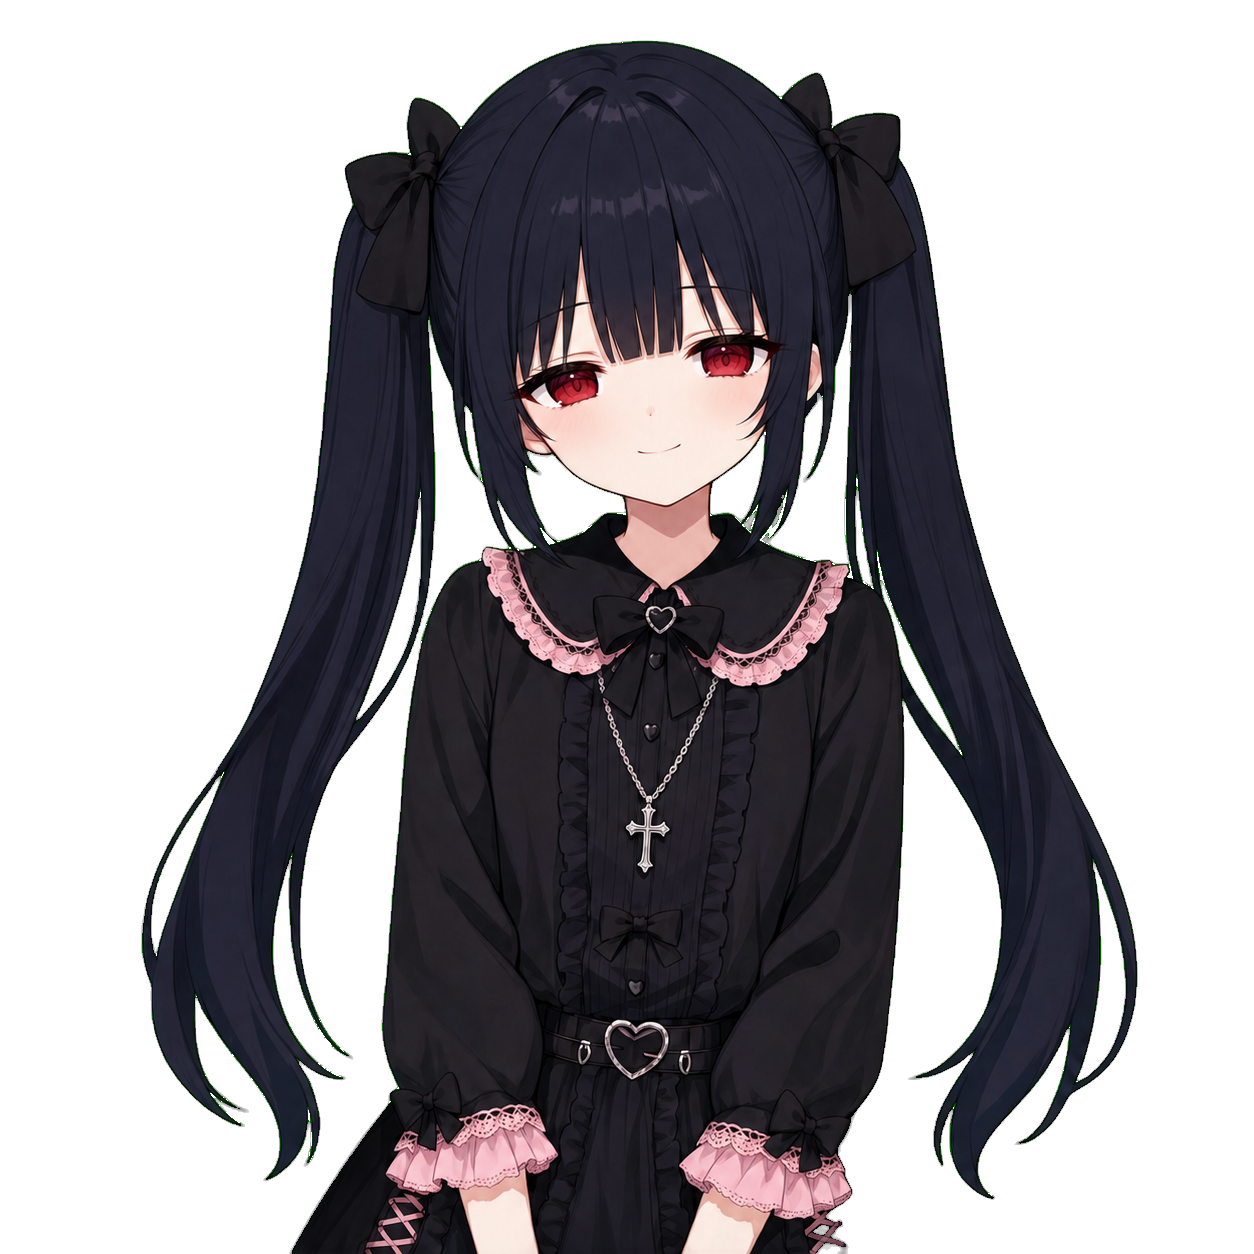
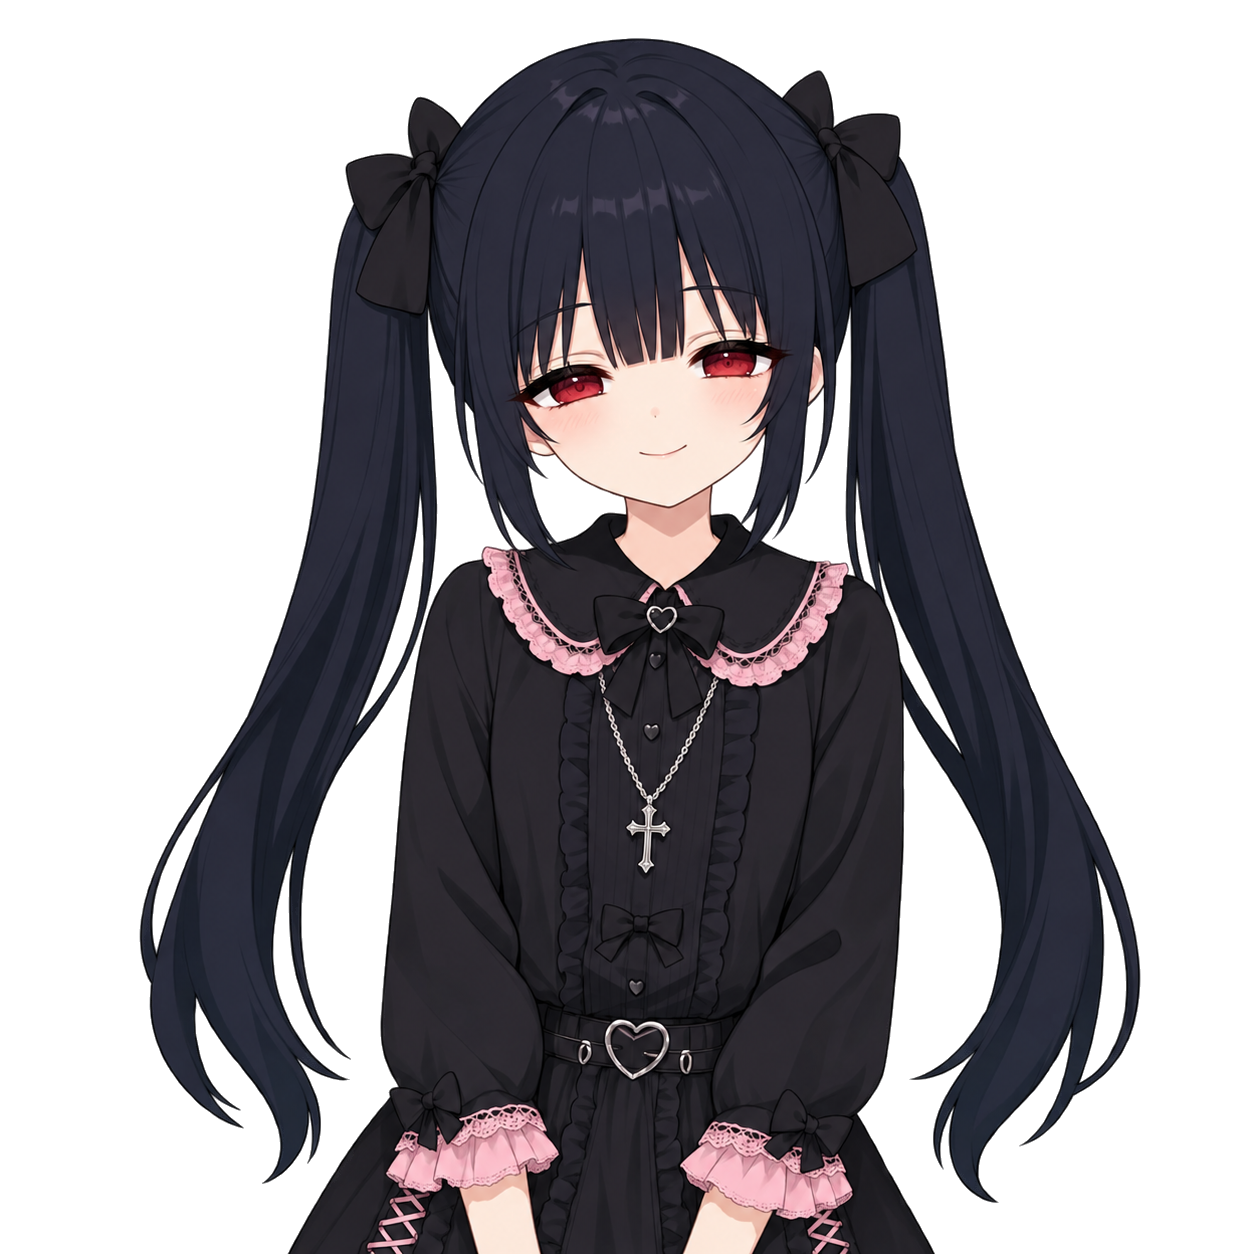
feat(tachie): native-transparent expression variants, green-screen as fallback
image_gen now returns true RGBA on the -i reference path: 13/13 on hongliu
(2026-11-18, smile x3 + angry/sad/surprised/confused/excited x2), vs ~1/4
in 2026-07. The green-screen route left ~1900-2300 fully opaque green
fringe px per variant; native output has none visible.

- remove_bg.py: add --bg-type native (no rembg). Verifies real alpha
  (exit 3 if no alpha channel or <10% fully transparent px), snaps alpha
  250-254 -> 255, drops alpha <=30 (clears green RGB image_gen leaves at
  alpha ~2-3), bleeds edge colour into transparent px. rembg path moved
  into a function unchanged; green/transparent outputs byte-identical.
- generate-tachie Step 3: native transparency first, green screen on
  exit 3. Validated scope noted: one dark-haired character only.
- hongliu smile/angry/sad/surprised/confused regenerated natively,
  replacing green-fringed variants; prompts updated. _raw/_rembg kept.

Claude-Session: https://claude.ai/code/session_016Eezm5GmBMQAhv3HiquHhN

diff --git a/skills/remove-tachie-bg/scripts/remove_bg.py b/skills/remove-tachie-bg/scripts/remove_bg.py
@@ -6,6 +6,11 @@ MVP de-background pipeline for the `remove-tachie-bg` skill:
   solid-green dig-out + speck cleanup) -> transparent PNG + dark/white
   check previews.
 
+`--bg-type native` is the no-rembg path for images the generator already
+delivered with a real alpha channel: verify the alpha is real -> snap
+near-opaque alpha to 255 -> drop near-transparent alpha -> bleed edge colour
+into fully transparent pixels -> same previews.
+
 See skills/remove-tachie-bg/SKILL.md for when/how to use.
 Deliberately NOT included (v2): background auto-detection, alpha-matting
 refinement, batch mode, complex-background handling.
@@ -19,46 +24,74 @@ import numpy as np
 from PIL import Image
 from scipy import ndimage
 
-# 函式庫 API 而非 rembg CLI: CLI 進入點無條件 import server/GUI 依賴(在 [cli] extra,
-# 拖 gradio/fastapi 全套), 函式庫核心只需 [cpu]; CLI 的 i 命令內部即是 remove(bytes, session)
-try:
-    from rembg import new_session, remove as rembg_remove
-except ImportError as e:
-    sys.exit(f"[error] rembg import failed ({e}). Is rembg[cpu] installed? See requirements.txt")
+# native 路徑門檻 (2026-11-18 hongliu 13 張實測: 全透明 48.5–49.4%, 本體 alpha 落在 250–254)
+NATIVE_MIN_TRANSPARENT = 0.10  # 全透明像素低於此比例 → 不是真透明(棋盤格假透明或畫了背景)
+NATIVE_OPAQUE_FROM = 250       # 本體 alpha 250–254 會微透出底色 → 拉到 255
+NATIVE_DROP_BELOW = 30         # 與 rembg 路徑的 α≤30→0 一致; 也清掉 image_gen 留在 α≈2–3 的綠底殘色
+EXIT_NOT_NATIVE = 3            # 呼叫端據此退回綠幕路徑
 
 
-def main():
-    ap = argparse.ArgumentParser(description="De-background an anime tachie image.")
-    ap.add_argument("input", help="path to the source image")
-    ap.add_argument("-o", "--output", required=True, help="path for the transparent RGBA PNG")
-    ap.add_argument(
-        "--bg-type",
-        choices=["green", "solid", "transparent", "other"],
-        default="other",
-        help="original background type; 'green' triggers green-spill decontamination + solid-green dig-out",
-    )
-    ap.add_argument(
-        "--no-green-dig",
-        action="store_true",
-        help="skip solid-green residue dig-out (escape hatch when the character's own palette contains saturated green, e.g. green eyes/hair/outfit)",
-    )
-    ap.add_argument("--max-edge", type=int, default=1536, help="downscale long edge to this (default 1536)")
-    ap.add_argument("--preview-dir", default=None, help="dir for _darkcheck/_whitecheck previews (default: output dir)")
-    args = ap.parse_args()
-
-    if not os.path.isfile(args.input):
-        sys.exit(f"[error] input not found: {args.input}")
-
-    # 1. load + downscale (立繪用不到 8K,超大圖 rembg 慢且不會更準)
+def load_scaled(path, mode, max_edge):
+    """Open + downscale to max_edge (立繪用不到 8K, 超大圖 rembg 慢且不會更準)."""
     try:
-        img = Image.open(args.input).convert("RGB")
+        img = Image.open(path).convert(mode)
     except OSError as e:  # UnidentifiedImageError(壞檔/非圖片)也是 OSError
         sys.exit(f"[error] cannot read image ({e}). PNG/JPEG/WebP supported.")
     w, h = img.size
-    scale = min(1.0, args.max_edge / max(w, h))
+    scale = min(1.0, max_edge / max(w, h))
     if scale < 1.0:
         img = img.resize((int(w * scale), int(h * scale)))
         print(f"[downscale] {w}x{h} -> {img.size[0]}x{img.size[1]}")
+    return img
+
+
+def native_pipeline(args):
+    """Finalize a generator-native RGBA image without re-segmenting it."""
+    src = Image.open(args.input)
+    if "A" not in src.getbands():
+        print(f"[not-native] no alpha channel (mode={src.mode}) — fall back to the green-screen route")
+        sys.exit(EXIT_NOT_NATIVE)
+    arr = np.array(load_scaled(args.input, "RGBA", args.max_edge))
+    a = arr[:, :, 3].astype(np.int32)
+
+    transparent_share = float((a == 0).mean())
+    if transparent_share < NATIVE_MIN_TRANSPARENT:
+        print(f"[not-native] only {transparent_share:.1%} fully transparent px "
+              f"(< {NATIVE_MIN_TRANSPARENT:.0%}) — likely fake/checkered transparency; "
+              "fall back to the green-screen route")
+        sys.exit(EXIT_NOT_NATIVE)
+
+    snapped = int(((a >= NATIVE_OPAQUE_FROM) & (a < 255)).sum())
+    dropped = int(((a > 0) & (a <= NATIVE_DROP_BELOW)).sum())
+    a[a >= NATIVE_OPAQUE_FROM] = 255
+    a[a <= NATIVE_DROP_BELOW] = 0
+    arr[:, :, 3] = a.astype(np.uint8)
+
+    # 全透明像素的 RGB 改成最近可見像素的顏色 (edge bleed): 引擎縮放/雙線性濾波會混到
+    # 透明像素的 RGB, 留著綠底殘色會滲綠邊, 塗黑則滲黑邊; 等同 Godot Fix Alpha Border 先做掉
+    hidden = a == 0
+    if hidden.any() and (~hidden).any():
+        _, (iy, ix) = ndimage.distance_transform_edt(hidden, return_indices=True)
+        for c in range(3):
+            arr[:, :, c] = arr[iy, ix, c]
+
+    stats = [f"[native] real alpha: {transparent_share:.1%} fully transparent px",
+             f"[native] snapped {snapped} px alpha {NATIVE_OPAQUE_FROM}-254 -> 255, "
+             f"dropped {dropped} px alpha 1-{NATIVE_DROP_BELOW} -> 0, edge colour bled into transparent px"]
+    return arr, stats
+
+
+def rembg_pipeline(args):
+    """Segment with rembg, clamp alpha, and (green only) de-green."""
+    # 函式庫 API 而非 rembg CLI: CLI 進入點無條件 import server/GUI 依賴(在 [cli] extra,
+    # 拖 gradio/fastapi 全套), 函式庫核心只需 [cpu]; CLI 的 i 命令內部即是 remove(bytes, session)
+    try:
+        from rembg import new_session, remove as rembg_remove
+    except ImportError as e:
+        sys.exit(f"[error] rembg import failed ({e}). Is rembg[cpu] installed? See requirements.txt")
+
+    # 1. load + downscale
+    img = load_scaled(args.input, "RGB", args.max_edge)
 
     # 2. rembg (anime-tuned segmentation; 餵 PNG bytes — 輸出驗證基準建立在此路徑, 勿改餵 PIL 物件)
     buf = io.BytesIO()
@@ -108,6 +141,43 @@ def main():
             speck_count = int(small.sum())
             arr[:, :, 3] = np.where(small, 0, arr[:, :, 3]).astype(np.uint8)
 
+    stats = []
+    if args.bg_type == "green":
+        stats.append(f"[de-green] decontaminated {greenish_count} edge pixels")
+        if not args.no_green_dig:
+            stats.append(f"[green-dig] removed {dug_count} solid green px"
+                         + (f" + {speck_count} px in isolated specks" if speck_count else ""))
+    return arr, stats
+
+
+def main():
+    ap = argparse.ArgumentParser(description="De-background an anime tachie image.")
+    ap.add_argument("input", help="path to the source image")
+    ap.add_argument("-o", "--output", required=True, help="path for the transparent RGBA PNG")
+    ap.add_argument(
+        "--bg-type",
+        choices=["green", "solid", "transparent", "other", "native"],
+        default="other",
+        help="original background type; 'green' triggers green-spill decontamination + solid-green dig-out; "
+             f"'native' = generator already delivered real alpha (no rembg; exits {EXIT_NOT_NATIVE} if the alpha is not real)",
+    )
+    ap.add_argument(
+        "--no-green-dig",
+        action="store_true",
+        help="skip solid-green residue dig-out (escape hatch when the character's own palette contains saturated green, e.g. green eyes/hair/outfit)",
+    )
+    ap.add_argument("--max-edge", type=int, default=1536, help="downscale long edge to this (default 1536)")
+    ap.add_argument("--preview-dir", default=None, help="dir for _darkcheck/_whitecheck previews (default: output dir)")
+    args = ap.parse_args()
+
+    if not os.path.isfile(args.input):
+        sys.exit(f"[error] input not found: {args.input}")
+
+    if args.bg_type == "native":
+        arr, stats = native_pipeline(args)
+    else:
+        arr, stats = rembg_pipeline(args)
+
     out = Image.fromarray(arr, "RGBA")
     os.makedirs(os.path.dirname(os.path.abspath(args.output)), exist_ok=True)
     out.save(args.output)
@@ -124,11 +194,8 @@ def main():
         canvas.convert("RGB").save(p)
         previews.append(p)
 
-    if args.bg_type == "green":
-        print(f"[de-green] decontaminated {greenish_count} edge pixels")
-        if not args.no_green_dig:
-            print(f"[green-dig] removed {dug_count} solid green px"
-                  + (f" + {speck_count} px in isolated specks" if speck_count else ""))
+    for line in stats:
+        print(line)
     print(f"[done] {args.output}")
     print(f"[check] eyeball BOTH previews:\n        {previews[0]}\n        {previews[1]}")
 

diff --git a/skills/generate-tachie/SKILL.md b/skills/generate-tachie/SKILL.md
@@ -88,9 +88,13 @@ The **Prompt Anchor** is the key consistency mechanism — a fixed text block de
 5. Save prompt as `assets/tachie/<character_name>/<character_name>_<expression>.prompt.txt`
 6. Show the result (transparent PNG **and** both background checks) to the user for approval before generating variants.
 
-### Step 3 — Generate Expression Variants (green-screen route)
+### Step 3 — Generate Expression Variants (native transparency, green-screen fallback)
 
-**Why green-screen, not transparent**: variant generation passes the base image as a visual reference (`-i`). Codex `image_gen` internally composites `-i` transparent reference images onto a **chroma-green backing** before feeding the model (evidence: `tmp/imagegen/hongliu_neutral_chroma.png`, gitignored) — so the model sees a green-backed reference and paints a background anyway. Asking for a transparent background on the `-i` path yields true RGBA only ~1/4 of the time. Requesting a green screen instead *aligns with* that internal behavior, and the residue it leaves is recoverable by color (see `remove-tachie-bg`). Pipeline validated 5/5 on hongliu regeneration (2026-07-11: surprised/smile/angry/sad/confused).
+**Why native transparency first**: variant generation passes the base image as a visual reference (`-i`). Asking `image_gen` for a transparent background on this path now delivers true RGBA reliably — **13/13** on hongliu (2026-11-18: smile ×3, angry/sad/surprised/confused/excited ×2), clean on both background checks, and with **no visible green residue** (the green-screen route left ~1900–2300 fully opaque green fringe px per image on the same character). History: in 2026-07 the same request yielded true RGBA only ~1/4 of the time, which is why this step used to be green-screen only; which `image_gen` model version Codex runs is not exposed, so the success rate can regress again — the `native` post-process verifies every image and the green-screen route stays as the fallback.
+
+**Validated scope**: all 13 samples are one dark-haired character (hongliu: blue-black hair, one reference image, one outfit). Light hair (blonde/silver/pink/white) is **untested** on this path — its edges may halo differently. The first time a new character goes through this step, run the full dual-background check on **every** expression, not a sample. The exit-3 gate only catches missing/fake transparency; it does **not** catch white/gray edge halos, which only the dark/white previews reveal.
+
+Two quirks of native output, both handled by `remove_bg.py --bg-type native`: the character body comes back at alpha 250–254 instead of 255 (slightly see-through), and near-transparent pixels (alpha ≈ 2–3) carry green RGB — `image_gen` still composites `-i` transparent references onto a chroma-green backing internally (evidence: `tmp/imagegen/hongliu_neutral_chroma.png`, gitignored).
 
 For each requested expression (or all 6 MVP expressions: smile, angry, sad, surprised, confused):
 
@@ -101,20 +105,26 @@ For each requested expression (or all 6 MVP expressions: smile, angry, sad, surp
    - "Use the visible image above as the visual reference — preserve the exact character design, outfit, hair, pose, and proportions. Change only the facial expression."
    - The target expression: describe it concretely (e.g., "angry expression: furrowed brows, clenched jaw, sharp eyes" not just "angry")
    - "Single character, no text"
-   - Every line from the **Anti-Artifact Prompt Lines** section below, verbatim, **with the green-screen adaptation applied** (and the non-dark-hair adaptation if the character's hair is not dark)
+   - Every line from the **Anti-Artifact Prompt Lines** section below, verbatim (apply the non-dark-hair adaptation if the character's hair is not dark)
    - Art style cues matching the chosen `art_style` (same as the base)
-   - End with the green-screen backdrop instruction, verbatim:
+   - End with the transparent-background instruction, verbatim:
+
+     > "Fully transparent background: output a true RGBA PNG with a real alpha channel — no backdrop color, no checkerboard pattern, every gap between hair strands and the area around the silhouette fully transparent."
+
+3. Generate, then finalize via the `remove-tachie-bg` script (no rembg on this path — it verifies the alpha is real, snaps alpha ≥250 to 255, drops alpha ≤30, and bleeds edge colour into transparent pixels):
+
+   ```bash
+   python3 ../remove-tachie-bg/scripts/remove_bg.py <raw>.png -o <output>.png --bg-type native
+   ```
+
+   Then inspect per the **Post-Process & Artifact Check** dual-background step.
+4. **Fallback — exit code 3** (`[not-native]`: no alpha channel, or under 10% fully transparent pixels = fake/checkered transparency or a painted backdrop): redo this expression on the green-screen route —
+   - Same prompt, but apply the **green-screen adaptation** to the Anti-Artifact lines and replace the final instruction with, verbatim:
 
      > "Solid uniform pure green chroma-key background (#00FF00), a flat single-color green backdrop with no gradient, no texture, no pattern — the green fills every gap between hair strands and around the entire silhouette."
 
-3. Generate, then de-background via the `remove-tachie-bg` script (two-stage de-greening included):
-
-   ```bash
-   python3 ../remove-tachie-bg/scripts/remove_bg.py <raw>.png -o <output>.png --bg-type green
-   ```
-
-   Then inspect per the **Post-Process & Artifact Check** dual-background step. If the character's own palette contains saturated green, add `--no-green-dig` (see that skill's escape hatch).
-4. Save as `<character_name>_<expression>.png` with `.prompt.txt`.
+   - De-background with two-stage de-greening: `python3 ../remove-tachie-bg/scripts/remove_bg.py <raw>.png -o <output>.png --bg-type green` (add `--no-green-dig` if the character's own palette contains saturated green — see that skill's escape hatch). Validated 5/5 on hongliu (2026-07-11), but the result can keep a thin green fringe on hair edges that only the dark check reveals — prefer another native attempt first when time allows.
+5. Save as `<character_name>_<expression>.png` with `.prompt.txt`.
 
 This is best-effort consistency — image generation cannot guarantee identical appearance across variants. The Prompt Anchor + visual reference handoff improves consistency but is not pixel-perfect.
 
@@ -129,7 +139,7 @@ Include every line below verbatim in every generation prompt — base (Step 2) a
 
 **Non-dark hair adaptation**: the validated wording assumes dark hair — the loop's test character was black-haired. For a blonde/silver/pink/white-haired character, "a uniform flat dark tone" contradicts the design and may confuse the model or darken the hair edges. Replace it with "a uniform flat tone of the hair's base color" in the highlight-placement line. This substitution is semantically required but has not been loop-validated.
 
-**Green-screen adaptation** (Step 3 variants): the highlight-placement line ends with "...directly touches the transparent background boundary" — on the green-screen route there is no transparent background, so replace "transparent background boundary" with "background boundary". Minimal semantic substitution following the same precedent as the non-dark-hair adaptation; used verbatim in the 5/5 hongliu regeneration run (2026-07-11).
+**Green-screen adaptation** (Step 3 green-screen fallback only): the highlight-placement line ends with "...directly touches the transparent background boundary" — on the green-screen route there is no transparent background, so replace "transparent background boundary" with "background boundary". Minimal semantic substitution following the same precedent as the non-dark-hair adaptation; used verbatim in the 5/5 hongliu regeneration run (2026-07-11).
 
 ## Post-Process & Artifact Check
 
@@ -137,7 +147,8 @@ Run this after every generation. Step 1 depends on the route; steps 2–3 apply 
 
 1. **Background removal**:
    - *Base / text-to-image output* (transparent or checkered): `rembg i -m isnet-anime <raw>.png <output>.png`, then alpha-clamp (alpha >= 120 → 255, alpha <= 30 → 0) to get a clean RGBA PNG. Requires `rembg[cpu]` with the `isnet-anime` model.
-   - *Green-screen variant output* (Step 3): already handled by `remove_bg.py --bg-type green` in that step — same rembg + clamp plus two-stage de-greening. Do not run the manual sequence on top of it.
+   - *Native-transparent variant output* (Step 3): already handled by `remove_bg.py --bg-type native` in that step — no rembg, alpha finalize only. Do not run rembg on top of it: re-segmenting a real alpha channel can only lose edge detail.
+   - *Green-screen variant output* (Step 3 fallback): already handled by `remove_bg.py --bg-type green` in that step — same rembg + clamp plus two-stage de-greening. Do not run the manual sequence on top of it.
 2. **Dual-background check**: defect visibility is symmetric with backdrop tone — a **dark** backdrop exposes **bright** artifacts (light rim strokes, residual light halo, gray gap-residue), a **white** backdrop exposes **dark** artifacts (dark strokes or halo hugging the silhouette edge). Inspecting only the transparent PNG, or only one backdrop, misses half the defects (verified 2026-07-03). Composite over both and look at the hair silhouette:
 
    ```bash

diff --git a/skills/remove-tachie-bg/SKILL.md b/skills/remove-tachie-bg/SKILL.md
@@ -26,7 +26,7 @@ This is the "bring-your-own-image" de-background path — the counterpart to `ge
 Ask the user two things (do **not** auto-detect — one question is more reliable):
 
 1. **Is this an anime-style illustration?** (if not, warn about degraded quality)
-2. **What is the original background?** — `green` (chroma green) / `solid` (other flat color) / `transparent` (fake checkered) / `other`
+2. **What is the original background?** — `green` (chroma green) / `solid` (other flat color) / `transparent` (fake checkered) / `native` (real alpha channel straight from the generator) / `other`
 
 Background type decides the decontamination strategy in Step 1.
 
@@ -44,6 +44,8 @@ The green path is two-stage because green residue comes in two physically differ
 
 1. **Feathered-edge spill** (30<α<255 rim band): green light reflected onto hair edges → green-channel suppression.
 2. **Solid green gap-blocks** (α=255): rembg misjudges green background trapped in hair slits as *foreground* — edge decontamination can't touch these because they aren't edges. Fixed by color-gate dig-out (`(g>r+40)&(g>b+40)&(g>120)` → alpha 0) followed by ≤64px isolated-speck cleanup for the fragments the dig-out leaves behind.
+
+**Native path** (`--bg-type native`): for images that already carry a real alpha channel (e.g. `generate-tachie` Step 3 variants). Skips rembg entirely — re-segmenting real alpha only loses edge detail — and instead: verifies the alpha is real (exits **3** with `[not-native]` if there is no alpha channel or under 10% fully transparent pixels, i.e. fake/checkered transparency) → snaps alpha ≥250 to 255 (`image_gen` returns the body at 250–254, slightly see-through) → drops alpha ≤30 to 0 (clears the green RGB `image_gen` leaves at alpha ≈ 2–3) → bleeds the nearest visible colour into fully transparent pixels so engine filtering can't pull in green or black at the edge. Verified 2026-11-18 on hongliu: visible greenish px 0, edges unchanged at 3× zoom.
 
 **Escape hatch**: the dig-out assumes the character's own palette contains no saturated green. For a green-eyed / green-haired / green-outfit character it would eat the character — pass `--no-green-dig` to skip stage 2 (stage 1 spill suppression still runs).
 
